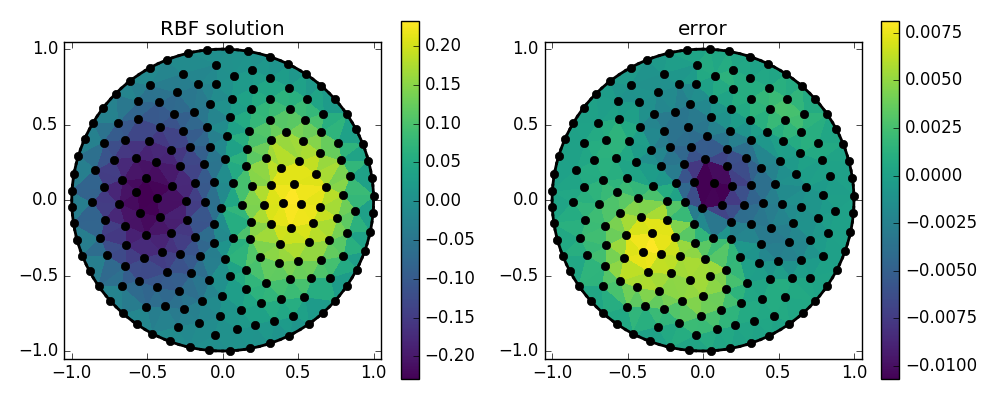
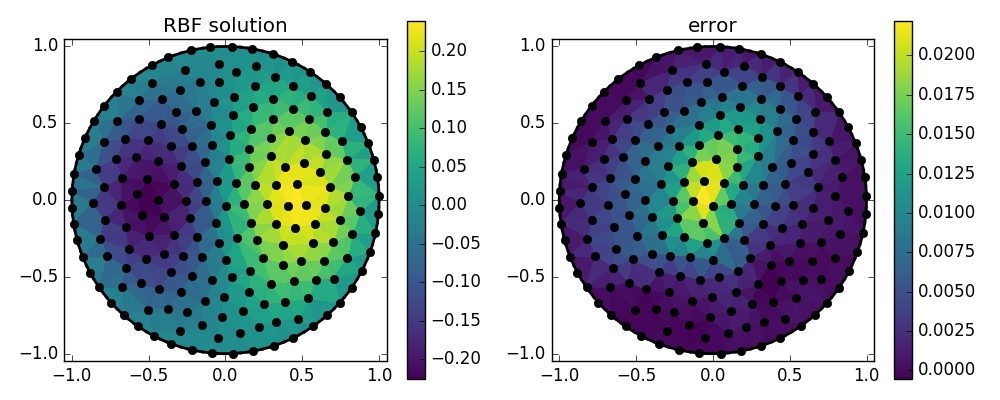
cleaned demo directory

diff --git a/demo/pde/fd/2d/ghosts.py b/demo/pde/fd/2d/ghosts.py
@@ -27,9 +27,6 @@ import matplotlib.pyplot as plt
 import logging
 import scipy.sparse
 from matplotlib import cm
-# set default cmap to viridis if you have it
-if 'viridis' in vars(cm):
-  plt.rcParams['image.cmap'] = 'viridis'
 
 def make_ghost_nodes(nodes,smpid,idx,vert,smp):
   # create nodes that are just outside the boundary
@@ -47,12 +44,6 @@ def make_ghost_nodes(nodes,smpid,idx,vert,smp):
   ghosts = sub_nodes + dx*norms   
   return ghosts
 
-# stencil size
-S = 20
-# polynomial order
-P = 2
-# basis function
-basis = rbf.basis.phs3
 # number of nodes
 N = 200
 
@@ -85,9 +76,8 @@ ghost = N + np.arange(len(boundary))
 bnd_vert = np.array([[0.0,0.0],[5.0,0.0]])
 bnd_smp = np.array([[0,1]])
 
-weight_kwargs = {'N':S,'order':P,
-                 'vert':bnd_vert,'smp':bnd_smp,
-                 'basis':basis}
+weight_kwargs = {'vert':bnd_vert,'smp':bnd_smp,'size':20,'order':2}
+
 # build lhs
 # enforce laplacian on interior nodes
 A_interior = weight_matrix(nodes[interior],nodes,
@@ -133,13 +123,13 @@ soln_itp = weight_matrix(itp,nodes,[0,0],**weight_kwargs).dot(soln)
 true_soln = np.arctan2(itp[:,1],-itp[:,0])/np.pi
 
 fig,ax  = plt.subplots(1,2,figsize=(10,4))
-p = ax[0].scatter(itp[:,0],itp[:,1],s=10,c=soln_itp,edgecolor='none')
+p = ax[0].scatter(itp[:,0],itp[:,1],s=10,c=soln_itp,edgecolor='none',cmap='viridis')
 fig.colorbar(p,ax=ax[0])
 ax[0].plot(nodes[:,0],nodes[:,1],'ko',markersize=5)
 for s in smp:
   ax[0].plot(vert[s,0],vert[s,1],'k-',lw=2)
 
-p = ax[1].scatter(itp[:,0],itp[:,1],s=10,c=soln_itp - true_soln,edgecolor='none')
+p = ax[1].scatter(itp[:,0],itp[:,1],s=10,c=soln_itp - true_soln,edgecolor='none',cmap='viridis')
 fig.colorbar(p,ax=ax[1])
 for s in smp:
   ax[1].plot(vert[s,0],vert[s,1],'k-',lw=2)

diff --git a/demo/pde/fd/2d/annulus.py b/demo/pde/fd/2d/annulus.py
@@ -28,7 +28,7 @@ import logging
 logging.basicConfig(level=logging.DEBUG)
 # set default cmap to viridis if you have it
   
-gap = 2.0*np.pi/180.0
+gap = 20.0*np.pi/180.0
 
 def solution(x):
   angle = np.arctan2(x[:,1],x[:,0]) 
@@ -39,7 +39,7 @@ def solution(x):
   return u
   
 # number of nodes
-N = 500
+N = 200
 
 # define the vertices and simplices for cut annulus
 t = np.linspace(gap,2*np.pi,100)
@@ -63,7 +63,7 @@ interior, = (smpid==-1).nonzero()
 # do not build stencils which cross this line
 bnd_vert = np.array([[0.0,0.0],[10*np.cos(gap/2.0),10*np.sin(gap/2.0)]])
 bnd_smp = np.array([[0,1]])
-weight_kwargs = {'vert':bnd_vert,'smp':bnd_smp}
+weight_kwargs = {'vert':bnd_vert,'smp':bnd_smp,'size':20}
 # build lhs
 # enforce laplacian on interior nodes
 A_interior = weight_matrix(nodes[interior],nodes,[[2,0],[0,2]],
@@ -103,13 +103,13 @@ soln_itp = weight_matrix(itp,nodes,[0,0],**weight_kwargs).dot(soln)
 true_soln = solution(itp)
 
 fig,ax  = plt.subplots(1,2,figsize=(10,4))
-p = ax[0].scatter(itp[:,0],itp[:,1],s=10,c=soln_itp,edgecolor='none')
+p = ax[0].scatter(itp[:,0],itp[:,1],s=10,c=soln_itp,edgecolor='none',cmap='viridis')
 fig.colorbar(p,ax=ax[0])
 ax[0].plot(nodes[:,0],nodes[:,1],'ko',markersize=5)
 for s in smp:
   ax[0].plot(vert[s,0],vert[s,1],'k-',lw=2)
 
-p = ax[1].scatter(itp[:,0],itp[:,1],s=10,c=soln_itp - true_soln,edgecolor='none')
+p = ax[1].scatter(itp[:,0],itp[:,1],s=10,c=soln_itp - true_soln,edgecolor='none',cmap='viridis')
 fig.colorbar(p,ax=ax[1])
 for s in smp:
   ax[1].plot(vert[s,0],vert[s,1],'k-',lw=2)
